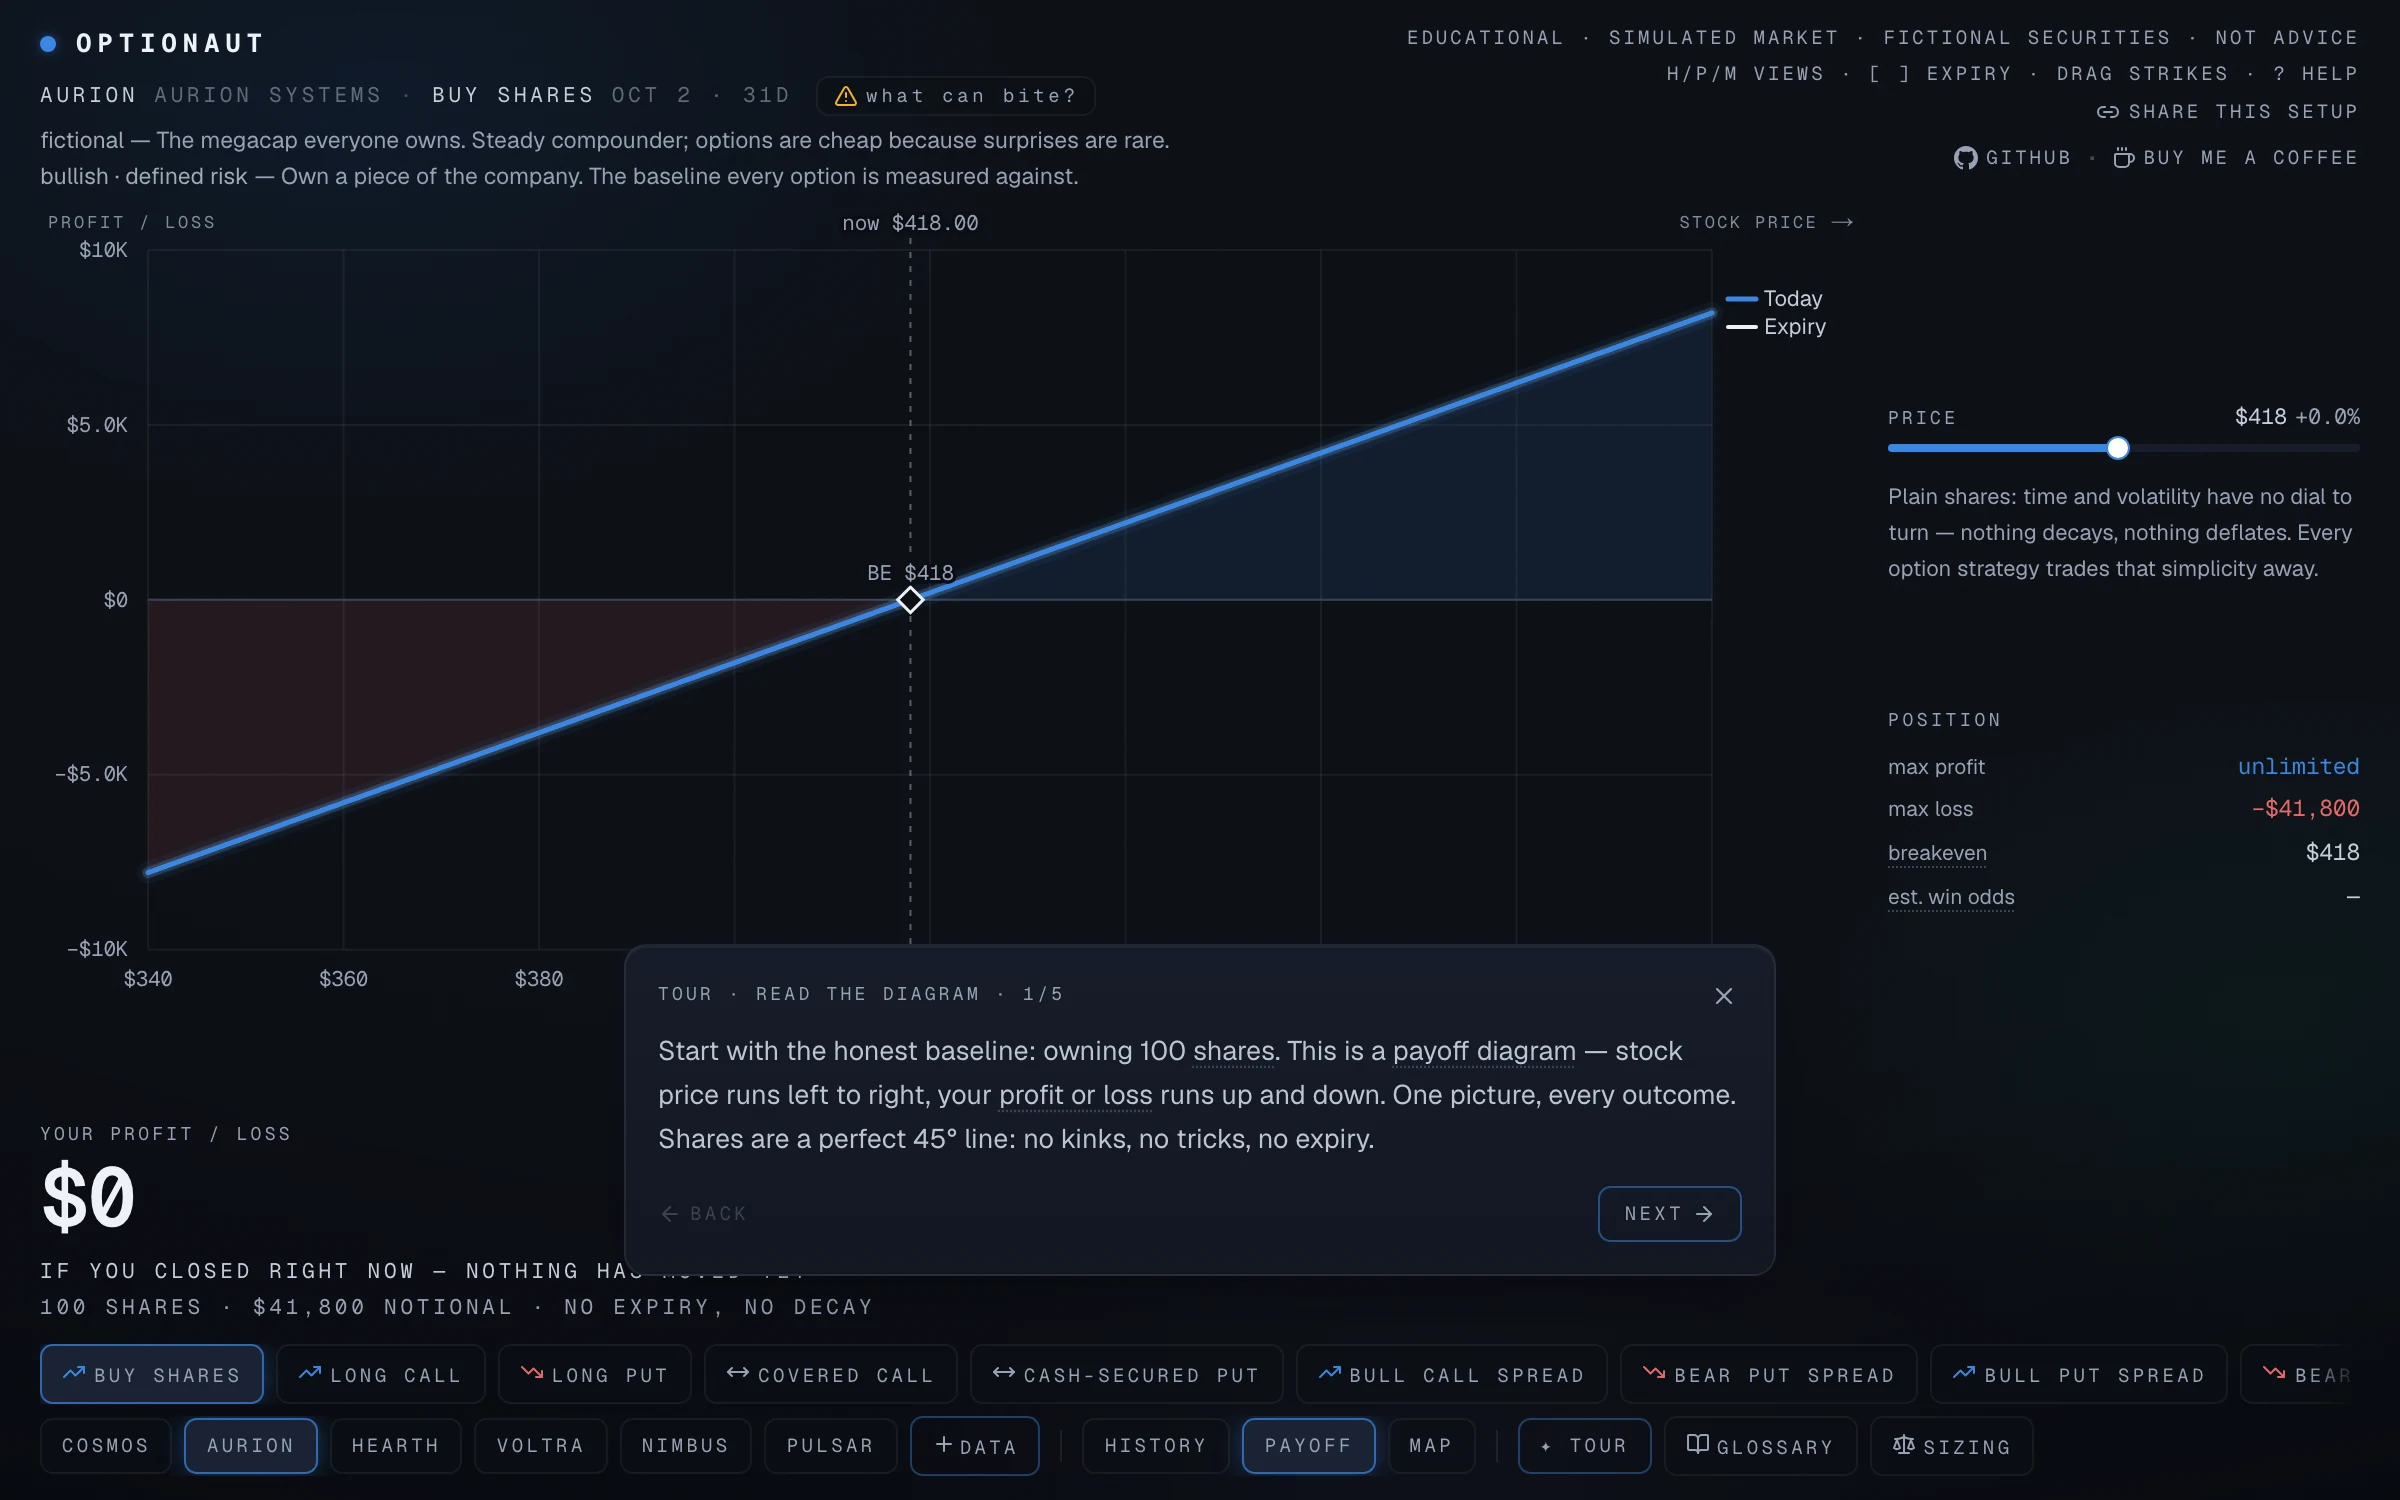
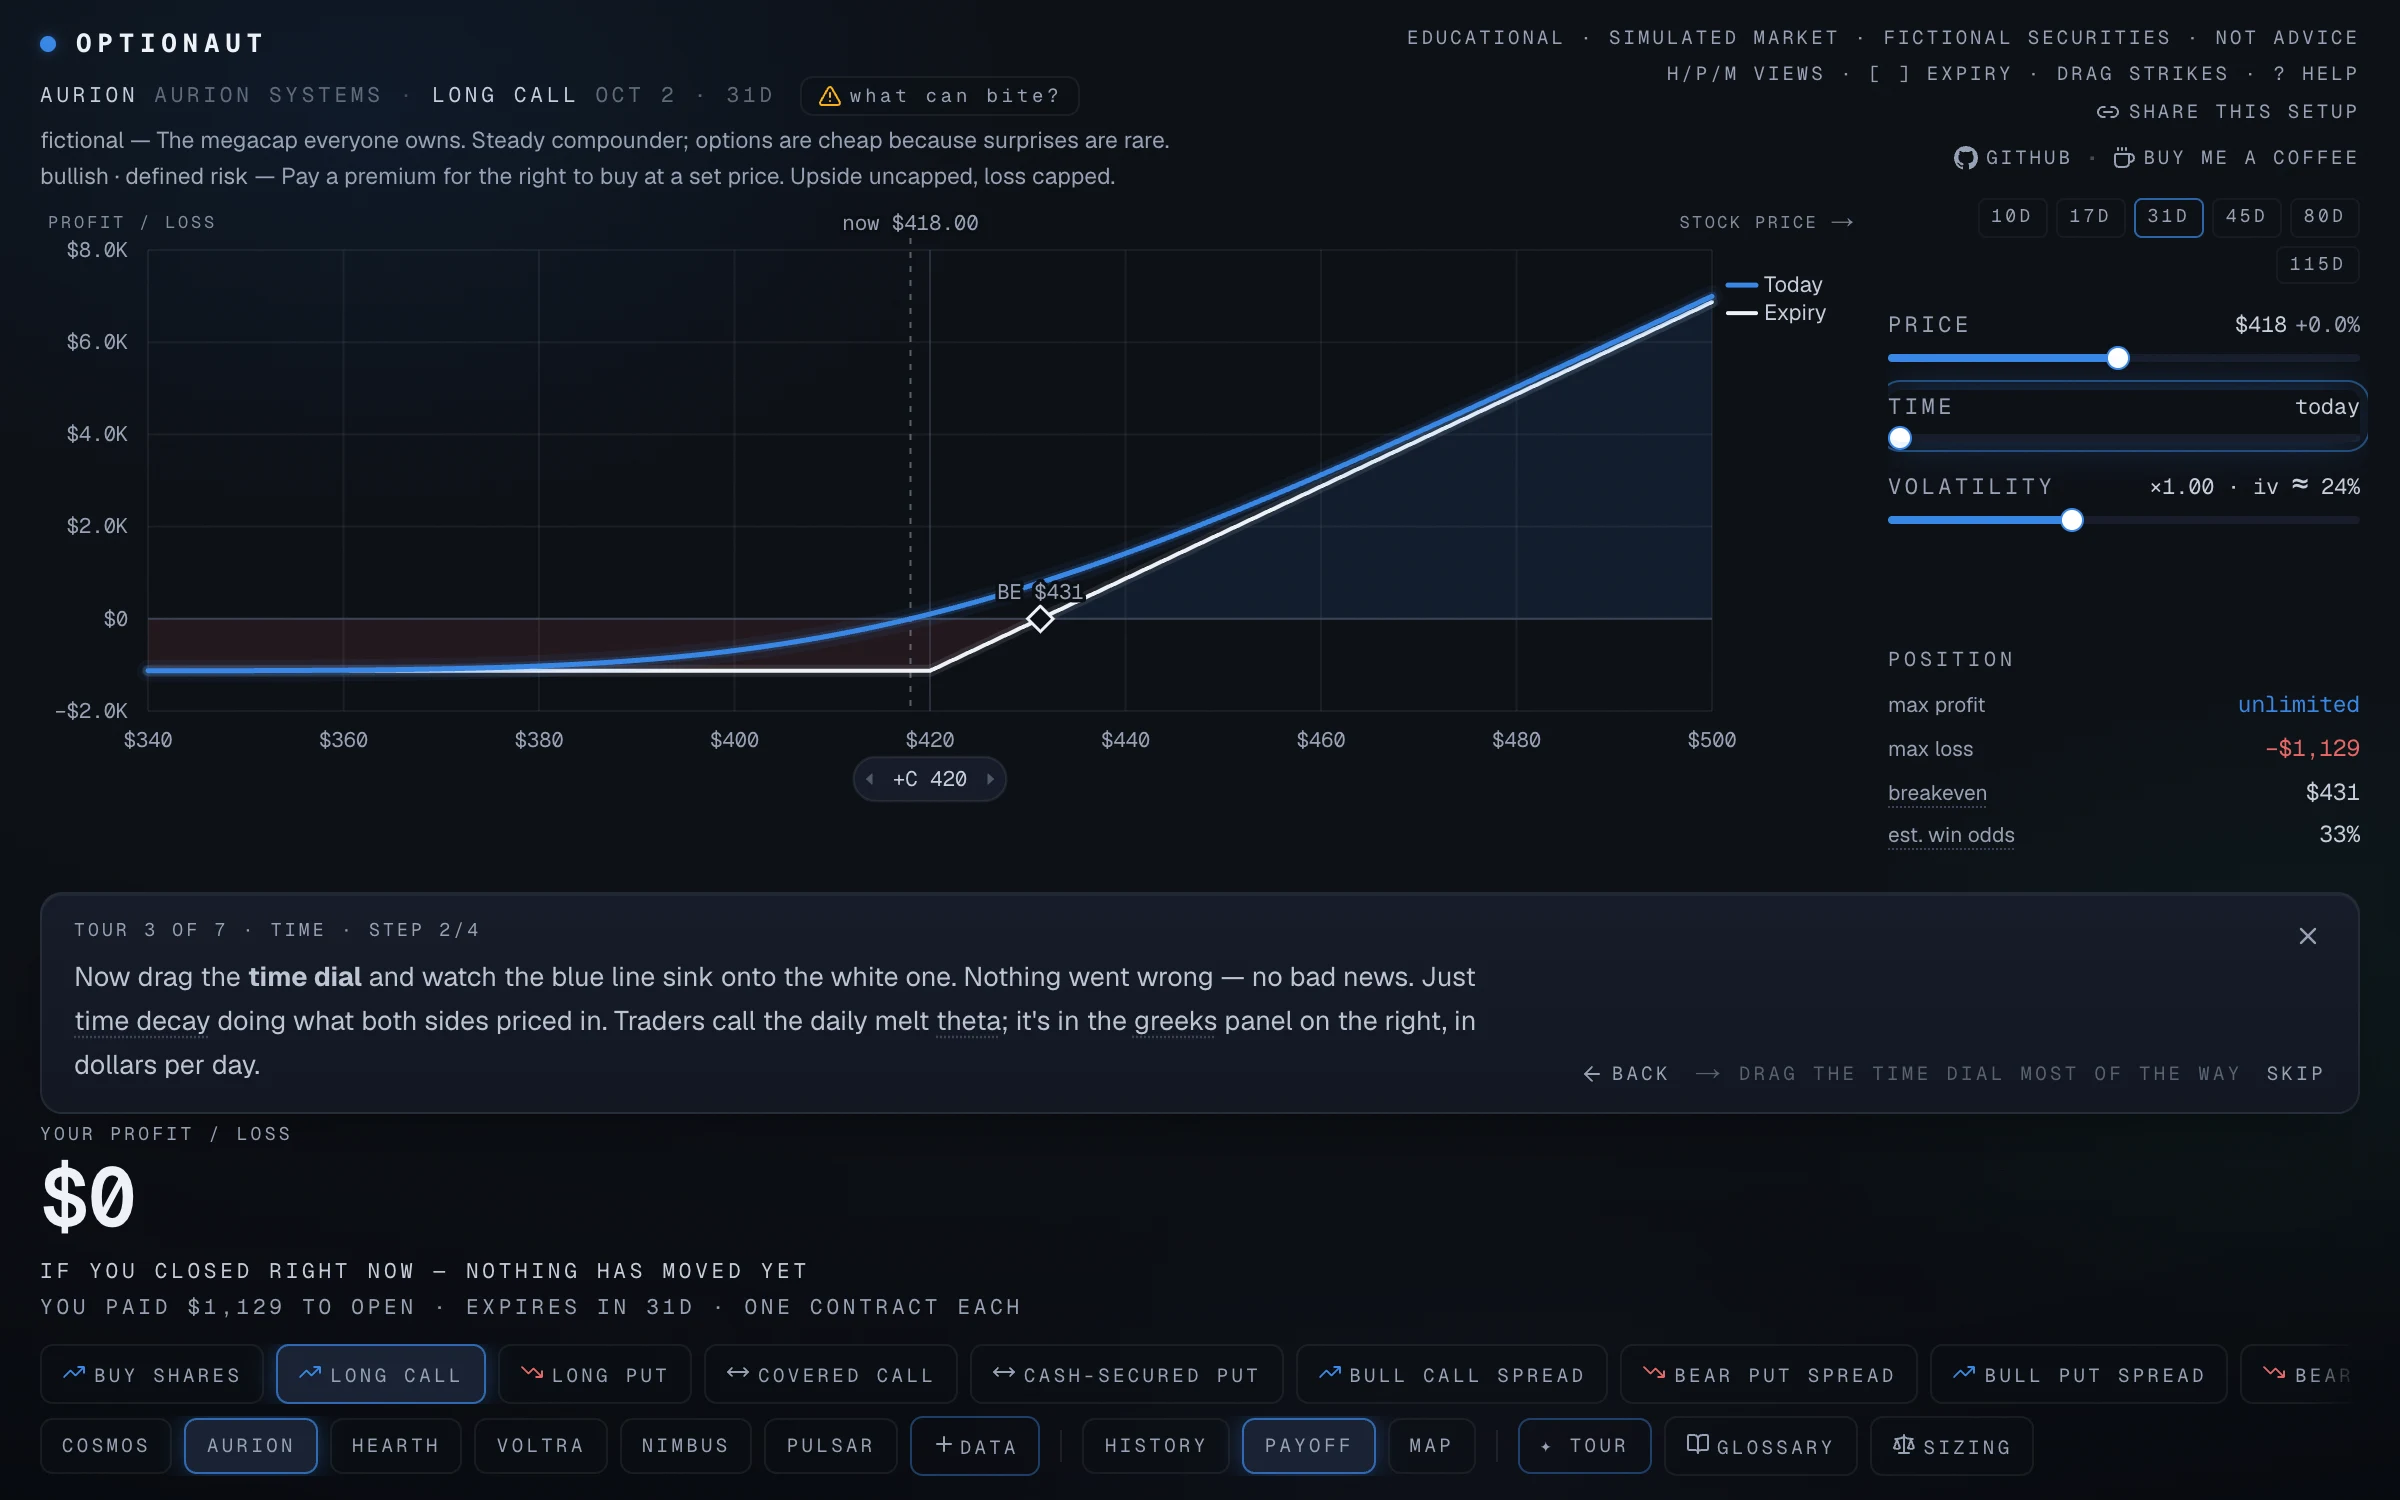
Polish after the tour review: docs, a tour-authoring guide, two more reveals, a fresh README shot
- CONTRIBUTING: how to write a tour step — scenes, gates and reveals against
  live numbers, targets, the `{" "}` caption spacing, saved progress.
- PLAN: status line brought up to date; M7 milestone and decision D12 record
  what the tour rework decided and what it deliberately left alone.
- README: the TOUR-mode caption describes the lane, spotlight, gates and
  reveals; docs/shot-tours.webp regenerated from the new UI by
  scripts/shot-tours.mjs (headless Chrome over CDP, like record-demo.mjs).
- Tours: the volatility crush and the earnings-night crush steps now reveal
  the number once the dial is dragged, like the other prediction prompts.

diff --git a/src/components/cockpit/tour/tours.tsx b/src/components/cockpit/tour/tours.tsx
@@ -311,6 +311,15 @@ export const TOURS: Tour[] = [
         scene: { strategy: "long-call", view: "payoff" },
         target: "volatility",
         gate: { check: (s) => s.ivScale <= 0.7, hint: "crush the volatility dial to ×0.7 or below" },
+        reveal: (s, c) => {
+          const pl = markToMarket(c.legs, c.spot, s.elapsedDays, c.market, s.ivScale);
+          return (
+            <>
+              Volatility at ×{s.ivScale.toFixed(2)}, stock unmoved, same day: {susd(pl)}. Right
+              about everything except the drama premium.
+            </>
+          );
+        },
         caption: (
           <>
             Now the ambush. You bought this call before <Term id="earnings">earnings</Term>. The
@@ -490,6 +499,17 @@ export const TOURS: Tour[] = [
       {
         target: "volatility",
         gate: { check: (s) => s.ivScale <= 0.5, hint: "drag volatility to ×0.50" },
+        reveal: (s, c) => {
+          const p = c.spot * 1.15;
+          const now = markToMarket(c.legs, p, s.elapsedDays, c.market, s.ivScale);
+          const fantasy = markToMarket(c.legs, p, 0, c.market, 1);
+          return (
+            <>
+              Same +15% gap: {susd(fantasy)} last night, {susd(now)} this morning at ×
+              {s.ivScale.toFixed(2)}. The difference is the crush.
+            </>
+          );
+        },
         caption: (
           <>
             The crush was <em>already in the price</em>{" "}— sellers demanded that fat premium

diff --git a/PLAN.md b/PLAN.md
@@ -1,7 +1,7 @@
 # Product Plan — Optionaut
 
-**Status:** M0–M4 built and verified (2026-07-20) — ready for first Vercel deploy. v2 (M5) next.
-**Last updated:** 2026-07-20
+**Status:** M0–M7 built and live at optionaut.org (2026-09-04). Parking lot next.
+**Last updated:** 2026-09-04
 **Name:** Optionaut (decided D9) · repo `github.com/abhishekpradhan/optionaut`
 
 ---
@@ -184,6 +184,7 @@ Principles:
 - ✅ **M4 — Polish** (2026-07-20): landing page w/ animated hero, About (methodology + disclaimers), global footer, 404/error pages, favicon, skip-link + reduced-motion, OG metadata, README. Deploy handoff: user imports repo in Vercel (zero-config static).
 - ✅ **M5 — Sims & sharing** (2026-07-21): shareable strategy URLs (expiry/strikes/dials in query params, nearest-dte matching so links survive calendar regens, "share this setup" copy control; condor wing-symmetry rider grew into a chain fix — far wings now quote zero-bid/nickel-ask like real markets so 4-leg strategies fit every expiry); scenario sims shipped as (a) "Earnings night" tour — IV-crush replay on PULSAR flown long then short, real dial gates, and (b) position-sizing overlay — 500 seeded Monte Carlo expiries at the position's own IV vs. an account number, honest zero-drift assumption. Remaining M5 ideas (more strategies) → parking lot. (~~Alpaca proxy + caching~~ — killed by D11: redistribution prohibited at every affordable tier.)
 - ✅ **M6 — The simulated market** (2026-07-21, D11): six fictional archetype securities generated by the in-house engine, Cboe capture machinery retired, bring-your-own-data (quick-build + manual Cboe CSV upload) stored localStorage-only.
+- ✅ **M7 — Tours for beginners** (2026-09-04, D12): a first-time usability review of tour mode (22 findings) and the fix pass — caption card in its own lane, scene-driven steps, spotlighted controls, prediction reveals, saved progress, a first-flight offer, and a copy pass on jargon.
 
 ---
 
@@ -201,6 +202,7 @@ Principles:
 | D8 | **The Cockpit** (2026-07-21, user-confirmed): the app is ONE full-screen instrument, no scrolling document anywhere. Center stage = an informative chart in three view modes (HISTORY candles+cone · PAYOFF diagram · MAP heatmap) that morph in place. HUD at the edges: top-left context line, top-right key hints + honesty chip, bottom-left giant live P/L readout, bottom chip rails (tickers, strategies, views, TOUR), right dial+stat stack (view-aware: vol context in history, position stats otherwise). Ticker/strategy switches morph the scene — never a page-load feel; URLs sync quietly (replaceState) so /t/SYM and /lab/SYM/STRAT deep links still work as static shells around the cockpit. Teaching = TOUR mode (caption cards + action gates driving the real instrument, adapted from the unit lessons); guides/glossary/about become glass overlays; persistent EDUCATIONAL·NOT ADVICE chip replaces the footer disclaimer. Lessons pages, MiniLab, card gallery, site header/footer, and three.js are removed. | ✅ Built & verified 2026-07-21 (all views, keyboard map, tours sheet, mobile dials sheet) |
 | D9 | **Name: Optionaut** (2026-07-21, user-picked from four candidates) — option + astronaut; the learner is the pilot, matching the cockpit/tours/fly-it language. Repo renamed `optionaut`; package, metadata, wordmark, and docs updated. Check domain/trademark availability before public launch. | ✅ Done |
 | D10 | **Mobile stance** (2026-07-21, user-directed): desktop is the intended experience. Phones (<700px wide or <450px tall) get the "boarding pass" — an on-brand gate with a mini instrument, share-the-link, glossary/about access, and an "enter anyway" hatch (session-scoped). Tablets in landscape get the full cockpit; portrait keeps the dials sheet. Touch parity: pinch-to-zoom on the stage mirrors wheel-zoom; dark theme-color + safe-area padding for mobile browser chrome. A first-class phone experience is deliberately out of scope for now. | ✅ Built |
+| D12 | **Tours for beginners** (2026-09-04, from a usability review flown as a first-time visitor). (a) The tour caption card lives in its own lane between the stage and the readout — never over the pills, labels, or numbers a caption points at. (b) Every step declares a *scene* (ticker, strategy, view, expiry, strikes, dials); arrivals apply the merged scene synchronously before the step renders, so gates are never judged against stale dials, back navigation shows the right instrument, a learner's detour heals at the next step, and no tour depends on the expiry the learner happened to have selected. Gates are relative to spot and expiry, never hard-coded. (c) Prediction prompts reveal the answer from the live numbers; every gate has a quiet "skip" (PLAN §4.2: interaction deepens, never required). (d) The control a step names lights up in the HUD; the target is derived from the tour, not mirrored in state. (e) Escape closes one layer at a time; progress persists per browser with resume/done in the tours sheet and a next-tour hand-off; reaching the last caption counts as done. (f) A first visit gets a "start the tour / just explore" offer; the tour chip carries a quiet static glow until a tour has been flown (motion only with meaning). (g) Terms leaked as plain text got `<Term>`s and three glossary entries (earnings, straddle, iron condor). Deliberately not done: restoring the pre-tour scene on exit (tours pin their own scene on entry instead) and a single unified keymap (the tour keeps its own arrow-key listener). | ✅ Built & deployed 2026-09-04 |
 | D11 | **The simulated market** (2026-07-21, user-directed after licensing research). Trigger: user asked whether serving Cboe's delayed quotes could "get us in trouble." Research (three parallel agents over Cboe/OPRA/vendor terms): Cboe's site ToS prohibit automated extraction and republication; OPRA's delayed-data redistribution fee starts ~$1,500/month (historical next-day data is fee-exempt but vendor contracts still bind whoever fetches it); Alpaca's terms prohibit redistribution outright regardless of non-commercial intent; every keyless/hobby source (Yahoo included) is personal-use-only; marketdata.app public display requires a custom-priced commercial tier. Conclusion: **no affordable legal path to publicly serving real chains.** Decision (user-confirmed): (a) the bundled market is **fictional** — six archetype securities with ≥6-letter symbols (real US listings max at five, so collision is impossible), personalities spanning the vol spectrum (COSMOS sleepy index 14% IV → PULSAR binary-event biotech 95%), generated deterministically by our own engine (`src/lib/sim/market.ts`, seeded GBM histories walked backward to the spot, smile+term-structure IVs, chains priced by the same BS engine that powers the cockpit); (b) **real securities are bring-your-own** — a quick-build from user-typed numbers, or Cboe's quotedata CSV which users download *manually* (manual personal lookup is what Cboe's terms permit; the app never fetches). User data is cached **localStorage-only, never server-side** — persistence without republication. Retired: `scripts/capture-snapshot.mjs`, `.github/workflows/refresh-data.yml`, the nightly-data badge, and the any-symbol serverless route (parking lot) — all superseded. No inquiries/licensing outreach drafted (user-directed). | ✅ Built 2026-07-21 |
 
 ---

diff --git a/CONTRIBUTING.md b/CONTRIBUTING.md
@@ -47,6 +47,36 @@ public/snapshots/         # the generated fixtures (the app's bundled data)
 6. **Full-screen instrument, no document scroll.** New surfaces are views, overlays, or
    HUD elements — not scrolling pages (PLAN.md decision D8).
 
+## Writing a tour
+
+Tours live in `src/components/cockpit/tour/tours.tsx`; the machinery around them is
+small and worth knowing before you add a step.
+
+- **Every step declares the scene it expects** — `scene: { ticker, strategy, view,
+  expiry, overrides, reset, dials }` (see `scene.ts`). Scenes are *merged* from step 0
+  up to the current step on every arrival (forward, back, resume, deep link), so a
+  step never shows its caption over the wrong instrument and a learner's detour on
+  the live stage heals at the next step. Naming a ticker or strategy clears the
+  learner's dials and strikes; `reset: true` clears the dials only; everything else is
+  left as the learner had it. The merge is pure and unit-tested (`scene.test.ts`).
+- **Gates and reveals see live numbers.** `gate.check(s, ctx)` and `reveal(s, ctx)`
+  receive the store plus a `TourCtx` built from the loaded chain (`spot`, `dte`, `em`,
+  `legs`, `nearest`, `stepStrike`). Write thresholds relative to `ctx.spot` and
+  `ctx.dte`, never as hard-coded dollars or days — the calendar workflow regenerates
+  the market monthly. A gate always has a quiet "skip" beside it: the caption must
+  read fine without the drag.
+- **Point at the control.** `target: "price" | "time" | … ` (the `TourTarget` union in
+  `scene.ts`) lights the matching `<Spot>` in the HUD. Add a target only if a `Spot`
+  wraps it.
+- **Captions are JSX; spell the space after an inline element as `{" "}`.** This
+  toolchain drops a plain space right after `</em>`, `</strong>`, or `</Term>` in
+  some caption text, so `<em>sold</em>{" "}put` is the house form. Every term of
+  jargon is a `<Term>` (ground rule 3); `npm run dev` warns in the console for an
+  unknown id.
+- **Progress is the learner's.** Steps and completion persist per browser in
+  `localStorage` (`src/lib/cockpit/tourProgress.ts`); reaching a tour's last caption
+  counts as done. Keep step ids stable — a saved place is an index into `steps`.
+
 ## The simulated market
 
 The bundled securities are fictional by design — see decision D11 in `PLAN.md` for

diff --git a/README.md b/README.md
@@ -46,9 +46,11 @@ at the edges as a HUD, and three views morph in place (`H` / `P` / `M`):
 
 <p align="center">
   <img src="docs/shot-tours.webp" alt="Tour mode: seven guided flights that drive the real instrument" width="100%" />
-  <em>TOUR mode — seven guided flights that drive the real instrument, with action gates
-  ("drag the time dial yourself…"). About twenty minutes from zero to iron condor, then an
-  earnings-night IV-crush replay flown from both sides.</em>
+  <em>TOUR mode — seven guided flights that drive the real instrument from a caption lane
+  under the chart: the control each step talks about lights up, action gates hold "next"
+  until you have dragged the dial yourself, and the answer to every prediction prompt
+  appears from the live numbers. Your place is saved. About twenty minutes from zero to
+  iron condor, then an earnings-night IV-crush replay flown from both sides.</em>
 </p>
 
 Plus the **MAP** view (a clickable price×time P/L heatmap — click any cell to jump the
